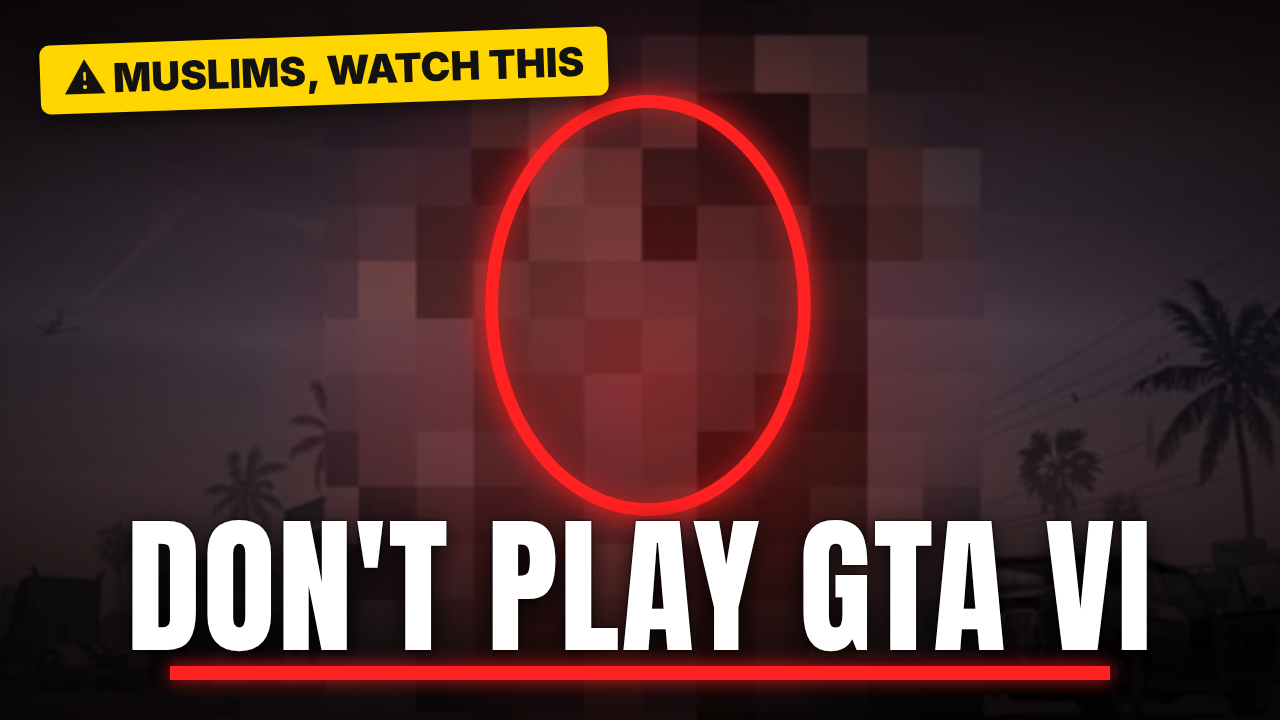
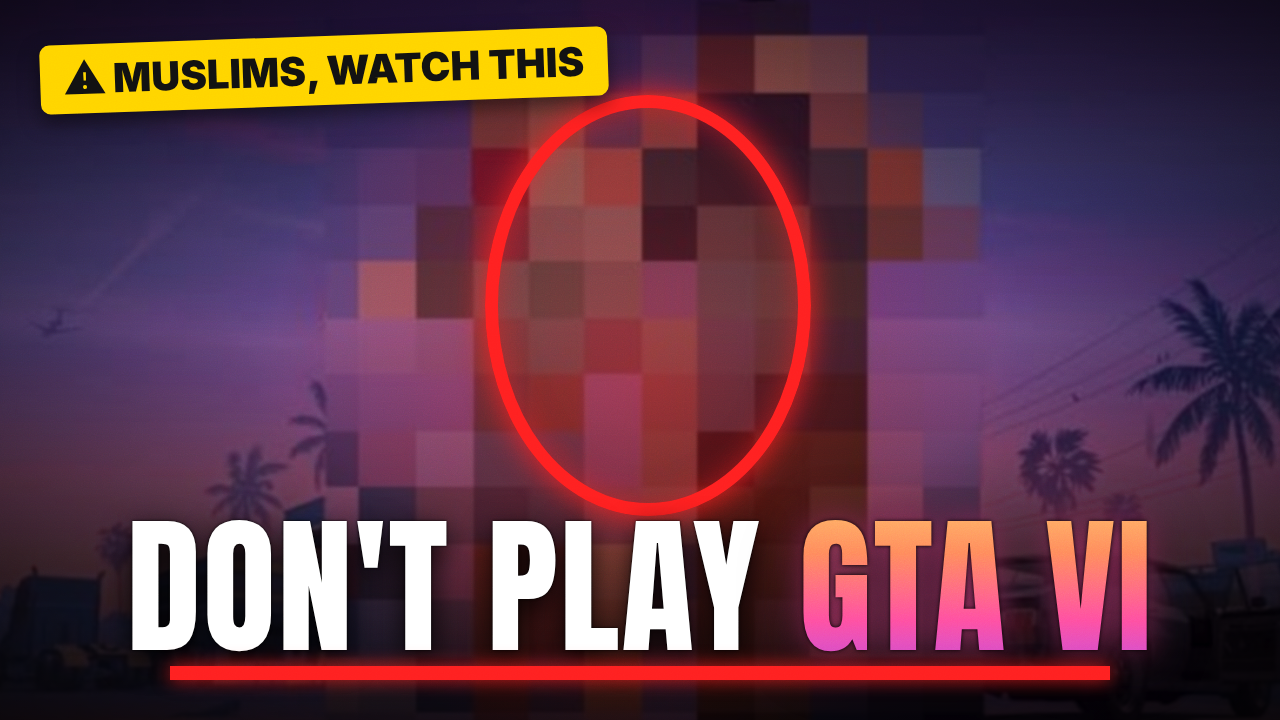
GTA VI thumbnail: single saturated poster background, GTA gradient on title
Claude-Session: https://claude.ai/code/session_01QVTU5PaE9KihLGBMkdjEyk

diff --git a/thumbnails/02-gta6/thumbnail.html b/thumbnails/02-gta6/thumbnail.html
@@ -3,8 +3,8 @@
 <style>
 html,body{margin:0;width:1280px;height:720px;overflow:hidden;background:#2a0505}
 /* one full-bleed image, graded serious: desaturated, red-tinted, crushed shadows */
-.bg{position:absolute;inset:-20px;background:url(poster.jpg) 45% center/cover;filter:grayscale(.75) contrast(1.25) brightness(.62) blur(1.2px)}
-.tint{position:absolute;inset:0;background:linear-gradient(180deg,rgba(120,0,0,.55),rgba(60,0,0,.35) 45%,rgba(25,0,0,.85));mix-blend-mode:multiply}
+.bg{position:absolute;inset:-20px;background:url(poster.jpg) 45% center/cover;filter:grayscale(.2) saturate(1.35) contrast(1.2) brightness(.7) blur(1.2px)}
+.tint{position:absolute;inset:0;background:linear-gradient(180deg,rgba(120,0,40,.35),rgba(60,0,30,.15) 45%,rgba(25,0,10,.8));mix-blend-mode:multiply}
 .redglow{position:absolute;left:640px;top:380px;width:900px;height:900px;margin:-450px;border-radius:50%;background:radial-gradient(circle,rgba(255,40,40,.35),rgba(255,40,40,0) 60%)}
 .vig{position:absolute;inset:0;background:radial-gradient(ellipse at 50% 45%,rgba(0,0,0,0) 40%,rgba(0,0,0,.7) 100%)}
 /* the censored figure highlighted */
@@ -13,13 +13,14 @@ html,body{margin:0;width:1280px;height:720px;overflow:hidden;background:#2a0505}
 .tag{position:absolute;left:40px;top:36px;display:flex;align-items:center;gap:14px;background:#FFD400;color:#111;font:900 40px Inter;padding:10px 24px;border-radius:10px;transform:rotate(-2deg);box-shadow:0 8px 20px rgba(0,0,0,.5)}
 /* caption: serious white, red underline */
 .cap{position:absolute;left:0;right:0;bottom:58px;text-align:center;white-space:nowrap;font:150px Anton;line-height:1;color:#fff;letter-spacing:2px;text-shadow:0 0 3px #000,0 10px 30px rgba(0,0,0,.95)}
+.cap span{background:linear-gradient(180deg,#FFD36E 0%,#FF8A5B 35%,#FF4FA0 65%,#A64DFF 100%);-webkit-background-clip:text;background-clip:text;color:transparent;text-shadow:none;filter:drop-shadow(0 0 2px #000) drop-shadow(0 0 18px rgba(255,79,160,.55)) drop-shadow(0 8px 20px rgba(0,0,0,.9))}
 .underline{position:absolute;left:170px;right:170px;bottom:40px;height:14px;background:#FF2020;box-shadow:0 0 18px rgba(255,32,32,.8)}
 .grain{position:absolute;inset:0;opacity:.18;mix-blend-mode:overlay}
 </style></head><body>
 <div class="bg"></div><div class="tint"></div><div class="redglow"></div><div class="vig"></div>
 <div class="ring"></div>
 <div class="tag">⚠ MUSLIMS, WATCH THIS</div>
-<div class="cap">DON'T PLAY GTA VI</div>
+<div class="cap">DON'T PLAY <span>GTA VI</span></div>
 <div class="underline"></div>
 <svg class="grain" width="1280" height="720"><filter id="n"><feTurbulence type="fractalNoise" baseFrequency=".85" numOctaves="2" stitchTiles="stitch"/></filter><rect width="1280" height="720" filter="url(#n)"/></svg>
 </body></html>
